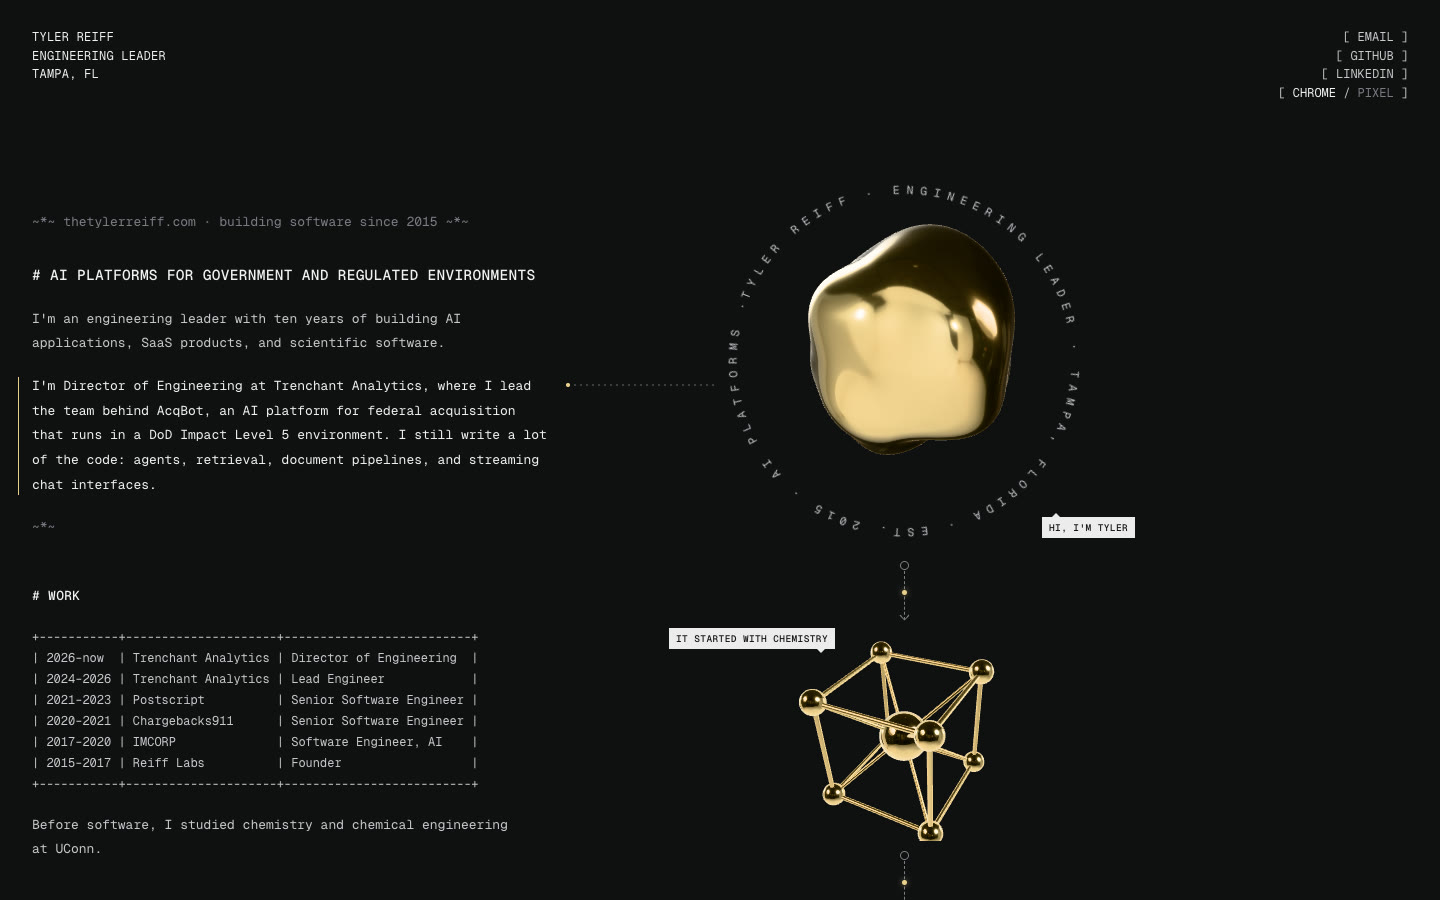
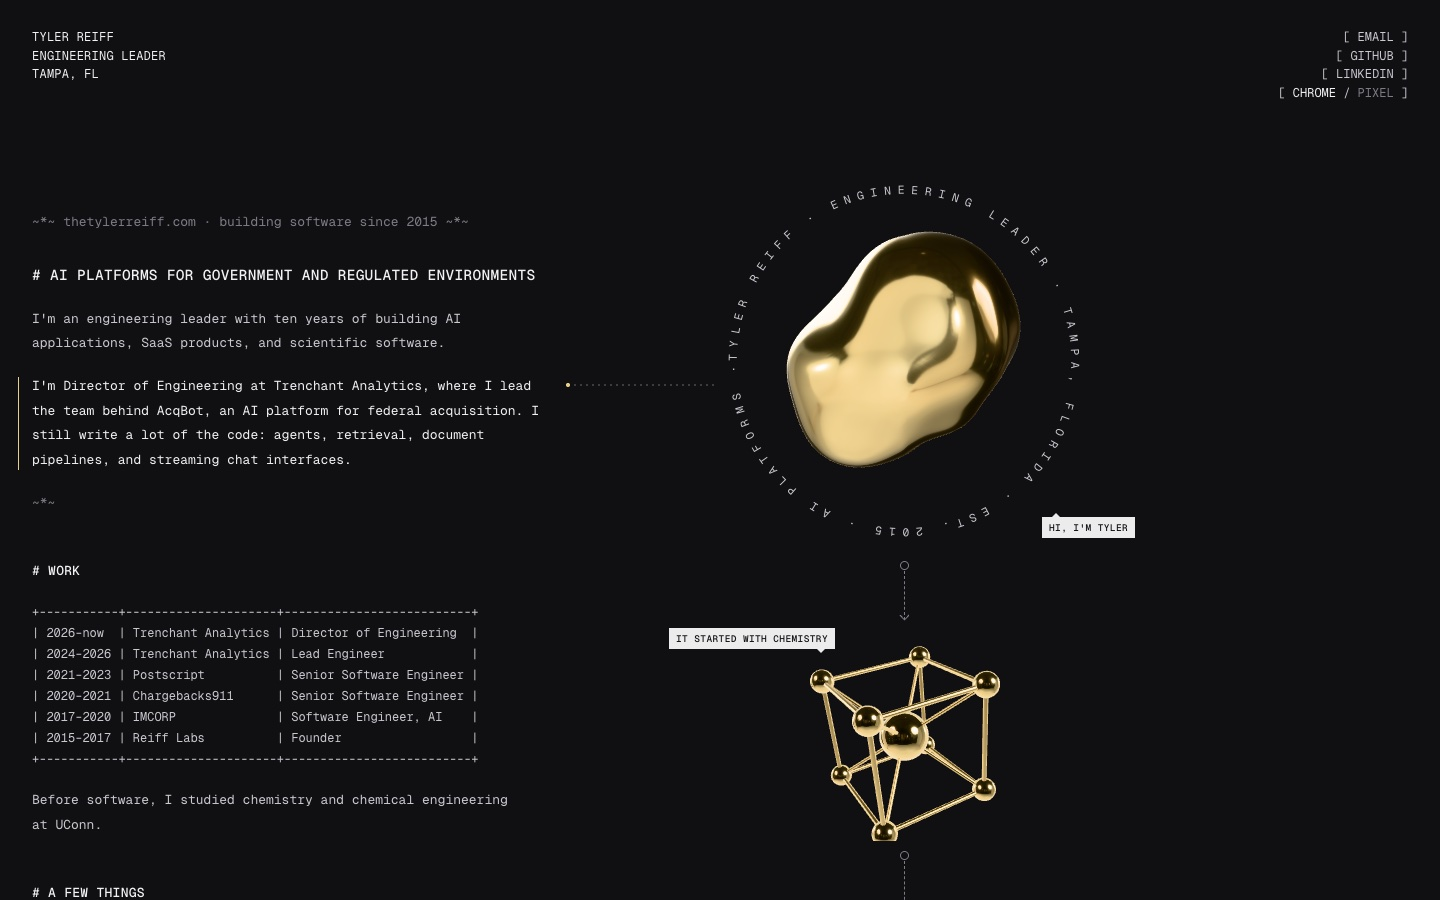
Drop DoD IL5 and agency references
- Intro and AcqBot caption describe it as a federal acquisition platform, without the IL5 environment.
- Contract bullet says a federal health agency instead of naming it.
- Retake the link preview and README screenshots to match.

diff --git a/index.html b/index.html
@@ -46,7 +46,7 @@
 
       <h1 id="intro"># AI PLATFORMS FOR GOVERNMENT AND REGULATED ENVIRONMENTS</h1>
       <p>I'm an engineering leader with ten years of building AI applications, SaaS products, and scientific software.</p>
-      <p id="t-intro" class="topic">I'm Director of Engineering at Trenchant Analytics, where I lead the team behind AcqBot, an AI platform for federal acquisition that runs in a DoD Impact Level 5 environment. I still write a lot of the code: agents, retrieval, document pipelines, and streaming chat interfaces.</p>
+      <p id="t-intro" class="topic">I'm Director of Engineering at Trenchant Analytics, where I lead the team behind AcqBot, an AI platform for federal acquisition. I still write a lot of the code: agents, retrieval, document pipelines, and streaming chat interfaces.</p>
 
       <p class="mute">~*~</p>
 
@@ -73,7 +73,7 @@
 
       <h2 id="things"># A FEW THINGS</h2>
       <ul class="dash">
-        <li id="t-acq" class="topic">Led the engineering behind AcqBot workflows that helped the Defense Health Agency award a <strong>$3.5 million</strong> software contract in <strong>about 12 hours</strong>.</li>
+        <li id="t-acq" class="topic">Led the engineering behind AcqBot workflows that helped a federal health agency award a <strong>$3.5 million</strong> software contract in <strong>about 12 hours</strong>.</li>
         <li>Built Commander, a conversational acquisition assistant with agent tools, streamed responses, and persistent history.</li>
         <li id="t-post" class="topic">Took SMS Sales at Postscript from first commit to <strong>$4 million ARR</strong>. The sales associate app handled more than <strong>30,000 messages a day</strong>.</li>
         <li id="t-imcorp" class="topic">Built browser tools for signal waveform analysis at IMCORP with React and WebAssembly, and an ensemble of models to read them.</li>
@@ -139,7 +139,7 @@
       <div class="grp" aria-hidden="true" data-anchor="side" data-topic="t-acq" data-shift="-40">
         <figure class="st st-box">
           <div class="view" data-obj="enclave" data-cell="2"></div>
-          <figcaption class="tag tag-l" data-tag="0">NOW AN AI PLATFORM INSIDE DOD IL5</figcaption>
+          <figcaption class="tag tag-l" data-tag="0">NOW AN AI PLATFORM FOR FEDERAL ACQUISITION</figcaption>
           <figcaption class="tag tag-r" data-tag="1">A CONTRACT AWARDED<br>IN ABOUT 12 HOURS</figcaption>
         </figure>
       </div>
